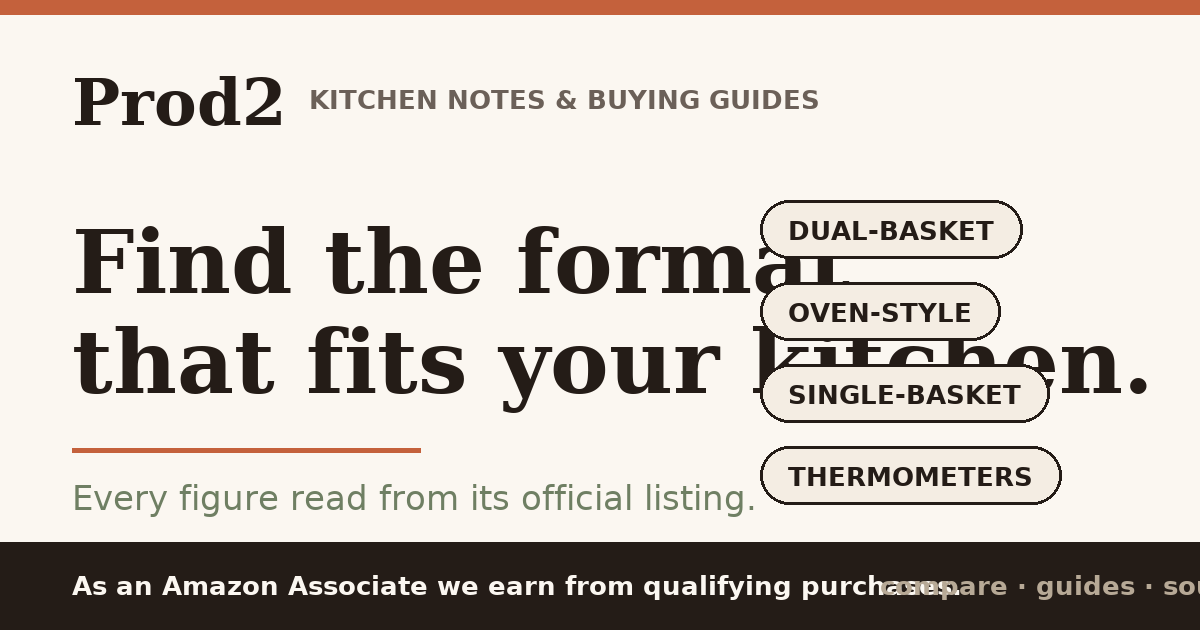
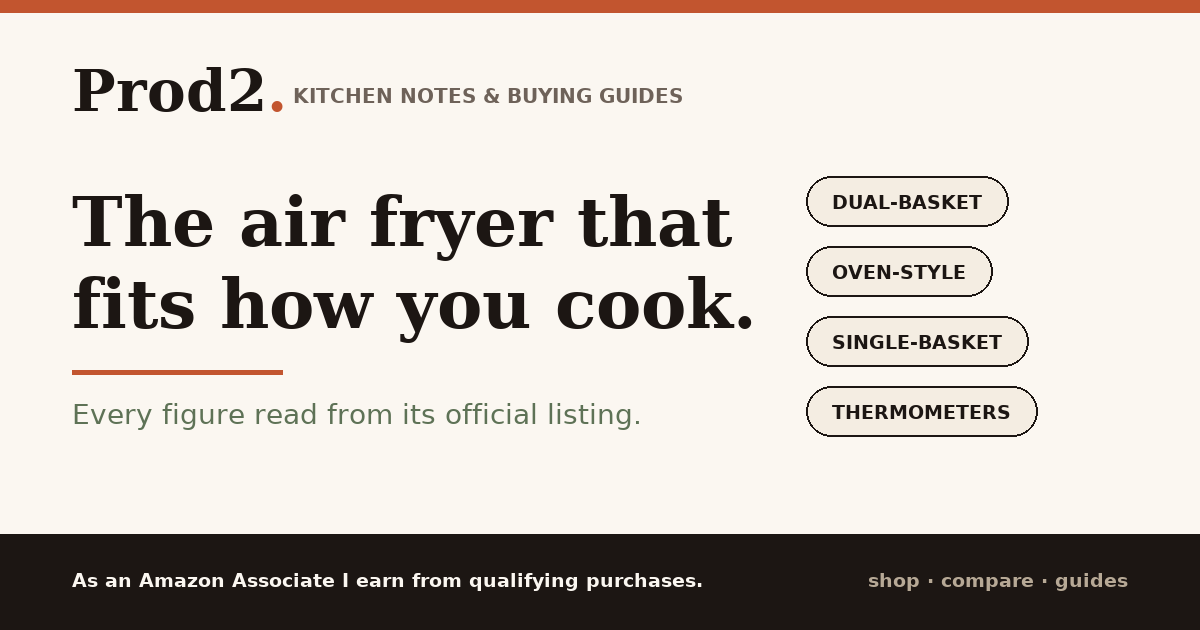
README/OG: documentation reconciled to the shipped site; social card rebuilt
- README: leads with the live publication, documents the docs/ -> root mirror and the
  403 that forces it, adds a page-by-page table, the product table, the compliance
  posture and a status-at-a-glance table. Removed a stale section describing a state
  the site had already left.
- make_og.py: the previous card overlapped its own headline with the chip column and
  truncated the required disclosure. Rebuilt with measured text and a no-truncation
  rule for the legal sentence; disclosure updated to the section 5 wording.
- Re-rendered assets/img/og-card.png.

diff --git a/tools/make_og.py b/tools/make_og.py
@@ -2,13 +2,17 @@
 """make_og.py — renders the social-preview card (assets/img/og-card.png).
 
 Typographic brand art only: real lettering rendered with DejaVu fonts on the
-site's paper background. This is NOT product photography — generated or copied
-product photography is banned (decision D-22 / S-18, still awaiting a decision).
+site's paper background. This is NOT product photography — Amazon listing imagery
+is Program Content and its use needs a licence review first (D-P12 / Q-P05).
 
     python3 tools/make_og.py
 
 Requires Pillow (pip install pillow). The output is committed so a clean
 checkout does not need Pillow unless the card is being changed.
+
+Layout rule (added 2026-11-20 after a broken render): every string is measured
+before it is drawn, and the draw is skipped-with-a-warning if it would overrun
+its column. Silent overlap is worse than a missing chip.
 """
 from __future__ import annotations
 
@@ -21,56 +25,101 @@ OUT = ROOT / "assets" / "img" / "og-card.png"
 
 W, H = 1200, 630
 PAPER = (251, 247, 241)
-PAPER_DEEP = (244, 237, 227)
-INK = (36, 28, 23)
-TERRACOTTA = (196, 97, 60)
-SAGE = (111, 127, 99)
-MUTED = (107, 96, 88)
+PAPER_DEEP = (244, 237, 226)
+INK = (28, 22, 19)
+TERRACOTTA = (194, 85, 47)
+SAGE = (94, 114, 86)
+MUTED = (110, 98, 89)
 
-SERIF = "/usr/share/fonts/truetype/dejavu/DejaVuSerif-Bold.ttf"
+SERIF_B = "/usr/share/fonts/truetype/dejavu/DejaVuSerif-Bold.ttf"
+SERIF = "/usr/share/fonts/truetype/dejavu/DejaVuSerif.ttf"
 SANS = "/usr/share/fonts/truetype/dejavu/DejaVuSans.ttf"
 SANS_B = "/usr/share/fonts/truetype/dejavu/DejaVuSans-Bold.ttf"
+
+MARGIN = 72
+FOOTER_H = 96
+
+DISCLOSURE = "As an Amazon Associate I earn from qualifying purchases."
+
+# Right column holds the format chips; keep it clear of the headline.
+CHIP_X = 806
+CHIP_W_MAX = W - CHIP_X - MARGIN
+
+
+def fit(draw: ImageDraw.ImageDraw, text: str, font, max_w: int):
+    """Return the text truncated with an ellipsis if it cannot fit max_w."""
+    if draw.textlength(text, font=font) <= max_w:
+        return text
+    ell = "…"
+    while text and draw.textlength(text + ell, font=font) > max_w:
+        text = text[:-1]
+    return text + ell
 
 
 def main() -> None:
     img = Image.new("RGB", (W, H), PAPER)
     d = ImageDraw.Draw(img)
 
-    f_brand = ImageFont.truetype(SERIF, 64)
-    f_desc = ImageFont.truetype(SANS_B, 26)
-    f_head = ImageFont.truetype(SERIF, 88)
-    f_sub = ImageFont.truetype(SANS, 34)
-    f_foot = ImageFont.truetype(SANS_B, 26)
+    f_brand = ImageFont.truetype(SERIF_B, 58)
+    f_desc = ImageFont.truetype(SANS_B, 20)
+    f_head = ImageFont.truetype(SERIF_B, 68)
+    f_sub = ImageFont.truetype(SANS, 28)
+    f_chip = ImageFont.truetype(SANS_B, 19)
+    f_foot = ImageFont.truetype(SANS_B, 19)
 
-    # top rule + brand row
-    d.rectangle([0, 0, W, 14], fill=TERRACOTTA)
-    d.text((72, 64), "Prod2", font=f_brand, fill=INK)
-    d.text((72 + d.textlength("Prod2", font=f_brand) + 22, 84),
-           "KITCHEN NOTES & BUYING GUIDES", font=f_desc, fill=MUTED)
+    # top rule
+    d.rectangle([0, 0, W, 12], fill=TERRACOTTA)
 
-    # headline
-    d.text((72, 210), "Find the format", font=f_head, fill=INK)
-    d.text((72, 310), "that fits your kitchen.", font=f_head, fill=INK)
+    # ---- brand row ----------------------------------------------------------
+    d.text((MARGIN, 56), "Prod2", font=f_brand, fill=INK)
+    brand_w = d.textlength("Prod2", font=f_brand)
+    # the wordmark's own terracotta full stop
+    d.text((MARGIN + brand_w, 56), ".", font=f_brand, fill=TERRACOTTA)
+    desc_x = MARGIN + brand_w + 26
+    d.text((desc_x, 84), "KITCHEN NOTES & BUYING GUIDES", font=f_desc, fill=MUTED)
 
-    # method line
-    d.line([72, 450, 420, 450], fill=TERRACOTTA, width=5)
-    d.text((72, 478), "Every figure read from its official listing.", font=f_sub, fill=SAGE)
-
-    # right-side format chips
-    x = 760
-    chips = ["DUAL-BASKET", "OVEN-STYLE", "SINGLE-BASKET", "THERMOMETERS"]
-    y = 200
-    for c in chips:
-        w = d.textlength(c, font=f_desc) + 56
-        d.rounded_rectangle([x, y, x + w, y + 58], radius=29, outline=INK, width=3, fill=PAPER_DEEP)
-        d.text((x + 28, y + 15), c, font=f_desc, fill=INK)
+    # ---- headline, confined to the left column ------------------------------
+    head_max_w = CHIP_X - MARGIN - 28
+    lines = ["The air fryer that", "fits how you cook."]
+    y = 182
+    for line in lines:
+        d.text((MARGIN, y), fit(d, line, f_head, head_max_w), font=f_head, fill=INK)
         y += 82
 
-    # footer strip
-    d.rectangle([0, H - 88, W, H], fill=INK)
-    d.text((72, H - 60), "As an Amazon Associate we earn from qualifying purchases.",
-           font=f_foot, fill=PAPER)
-    d.text((W - 320, H - 60), "compare · guides · sources", font=f_foot, fill=(183, 169, 150))
+    # ---- method line --------------------------------------------------------
+    d.line([MARGIN, y + 26, MARGIN + 210, y + 26], fill=TERRACOTTA, width=5)
+    sub = "Every figure read from its official listing."
+    d.text((MARGIN, y + 52), fit(d, sub, f_sub, head_max_w), font=f_sub, fill=SAGE)
+
+    # ---- right column: format chips ----------------------------------------
+    chips = ["DUAL-BASKET", "OVEN-STYLE", "SINGLE-BASKET", "THERMOMETERS"]
+    cy = 176
+    for c in chips:
+        label = fit(d, c, f_chip, CHIP_W_MAX - 52)
+        w = min(d.textlength(label, font=f_chip) + 52, CHIP_W_MAX)
+        d.rounded_rectangle([CHIP_X, cy, CHIP_X + w, cy + 50],
+                            radius=25, outline=INK, width=2, fill=PAPER_DEEP)
+        d.text((CHIP_X + 26, cy + 15), label, font=f_chip, fill=INK)
+        cy += 70
+
+    # ---- footer strip -------------------------------------------------------
+    d.rectangle([0, H - FOOTER_H, W, H], fill=INK)
+    fy = H - FOOTER_H + (FOOTER_H - 26) // 2
+    right = "shop · compare · guides"
+    right_w = d.textlength(right, font=f_foot)
+    # draw the right label first so the disclosure gets the remaining width
+    d.text((W - MARGIN - right_w, fy), right, font=f_foot, fill=(183, 169, 150))
+    avail = W - MARGIN * 2 - right_w - 40
+    if d.textlength(DISCLOSURE, font=f_foot) > avail:
+        # never truncate a required disclosure — shrink to fit instead
+        size = 19
+        while size > 12:
+            f_foot = ImageFont.truetype(SANS_B, size)
+            if d.textlength(DISCLOSURE, font=f_foot) <= avail:
+                break
+            size -= 1
+        fy = H - FOOTER_H + (FOOTER_H - size) // 2
+    d.text((MARGIN, fy), DISCLOSURE, font=f_foot, fill=PAPER)
 
     OUT.parent.mkdir(parents=True, exist_ok=True)
     img.save(OUT, "PNG", optimize=True)

diff --git a/README.md b/README.md
@@ -1,7 +1,13 @@
-# Prod2 — Countercraft
+# Prod2 — an editorial Amazon affiliate shop
 
-An editorial Amazon affiliate shop built from a verified product register. Tracking ID
-`shopnow047c-20`.
+Five kitchen tools (three air fryers in three formats, two meat thermometers), written up as a
+buying guide and sold through Amazon Associates. Tracking ID `shopnow047c-20`.
+
+**Live site:** https://wingbangboozle1-lang.github.io/Prod2/
+
+**Read this first if you are picking the project up:** the reader-facing site is the editorial
+shop build described below. The `Countercraft` `site/` build further down is a preserved earlier
+generation, kept deployable and gated, but it is **not** what readers see.
 
 The site is **data-driven**: every page is generated from the verified data in `data/*.json` by
 `scripts/build_site.py`, and `scripts/verify_site.py` is a release gate that fails the build on
@@ -11,26 +17,32 @@ sitemap gaps). Standard library only — no dependencies.
 ## Quick start
 
 ```bash
-python3 scripts/build_site.py     # render site/ from data/*.json
-python3 scripts/verify_site.py    # release gate (exits non-zero on any violation)
+python3 tools/build.py      # render the publication: data/p2/*.json + content/pages/* -> docs/ -> repo root
+python3 tools/checks.py     # release gate: 11 sections, exits non-zero on any violation
+npm test                    # the gate, plus the self-hosted endpoint tests
 ```
+
+`tools/build.py` writes `docs/` and then mirrors it to the repository root, because GitHub Pages
+serves this repository in legacy "main /" mode. That is not a preference: the Pages API reports
+`build_type: legacy` and returns **403** to the session token on any attempt to switch to Actions
+mode, so the root mirror is what readers actually get (INT-07, re-confirmed 2026-11-20).
 
 ## Layout
 
 ```
-data/            verified product data, source register, suggestions, ledger, articles
-scripts/         build_site.py (generator), verify_site.py (release gate)
-site/            generated static site (served by GitHub Pages)
-server.mjs       optional self-hosted aggregate-only event endpoint (serves site/; not deployed publicly)
-tests/           Node integration tests for the endpoint (npm test)
-.github/workflows/pages.yml   deploy to GitHub Pages on push to main
-.github/workflows/verify.yml  build + release gate + reproducibility check on every push/PR
-archive/counter-notes-v1/     the root-level site from PR #1 (kept unchanged; not published)
-archive/counter-notes-docs/   the generated "Counter Notes" site from PRs #2-#5 (archived at consolidation; not published)
-archive/counter-edit-build/   a parallel "The Counter Edit" build from session sess-prod2-a1 (archived at consolidation; not published)
-COORDINATION.md  shared task board
-EXECUTIVE_SUMMARY.md  executive summary
-DECISIONS.md     decision log (taken + open)
+data/p2/          the registers the site renders: products, sources, flags, questions,
+                  suggestions, decisions, intent-links, events, ledger, calendar, settings,
+                  and the dated verification records
+content/pages/    one file per page, with {{placeholders}} for data-rendered blocks
+assets/           the design system (css/site.css), interactions (js/site.js), measurement
+                  (js/measure.js) and six drawn illustrations
+tools/            build.py (generator), checks.py (release gate), make_og.py (social card)
+docs/             generated output -> published (also mirrored to the repo root)
+server.mjs        optional self-hosted aggregate-only event endpoint (not deployed publicly)
+scripts/ + site/  the preserved Countercraft build (earlier generation, still gated in CI)
+archive/          every previous build, kept and excluded from indexing by robots.txt
+COORDINATION.md   shared task board
+EXECUTIVE_SUMMARY.md, DECISIONS.md   reviewer-facing records
 ```
 
 **Root mirror (INT-07):** GitHub Pages for this repo is in legacy "serve the repository root"
@@ -47,40 +59,89 @@ form; the page tracker transmits nothing unless an endpoint is explicitly config
 
 ## The products
 
-Five submitted `link.amazon` short links, each resolved against its official Amazon listing.
+Five owner-supplied `link.amazon` short links, each resolved against its official Amazon listing.
 All five tokens are 9-character short-link tokens, not 10-character ASINs; they resolve to real
-listings. See `data/p2/products.json` and the **Research Desk** page.
+listings. See `data/p2/products.json`.
+
+| # | Product | Format | ASIN |
+| --- | --- | --- | --- |
+| P1 | Chefman 6 qt dual basket air fryer oven | Dual-basket | B0CDY277D3 |
+| P2 | Emeril Lagasse 26 qt French door air fryer toaster oven | Oven-style | B09B7SB46R |
+| P3 | Chefman 8 qt TurboFry air fryer | Single-basket | B08DKYBTPH |
+| P4 | ThermoMaven 1-second digital meat thermometer | Instant-read | B0DHZTCNR5 |
+| P5 | CHEF iQ Sense Gen3 wireless meat thermometer | Wireless leave-in | B0DZFD6R9Z |
+
+All five were **re-fetched live on 2026-11-20**; every observed string is recorded in
+`data/p2/verification-2026-11-20.json`, including the values that were *not* observed. Three of the
+five listings show a neighbouring product's price or rating in the visible page; none of those were
+mistaken for the target product (F-P17).
+
+## The site, by page
+
+| Page | Job |
+| --- | --- |
+| `index.html` | Shop front page: illustrated hero, the shelf of five, question-led guide entry points, seasonal desk |
+| `shop.html` | The whole catalogue, filterable by format and category, plus the three-question chooser |
+| `compare.html` | One sourced comparison table, the counter-space analysis, and how to read both |
+| `products.html` | Full listed specification per product, with the product-intent record kept separate |
+| `guides.html` + 9 guide pages | One buyer question per page, in clusters with pillar pages, on a 14-day cadence |
+| `category-air-fryers.html`, `category-thermometers.html` | The two format shelves |
+| `buying-guide.html` | The long-form decision path: format, then capacity, then counter, then cleanup |
+| `about.html` | Authorship, the four editorial rules, what we cannot tell you, imagery policy |
+| `flagged.html` | Every irregularity, with an evidence link and a resolution route |
+| `questions.html` | 15 open questions, each with a discovery method and what it blocks |
+| `suggestions.html` | 28 proposals in three decision paths, with a review walkthrough |
+| `measurement.html`, `compliance.html`, `privacy.html`, `method.html`, `decisions.html`, `executive-summary.html` | The governance surfaces, all reachable from the footer |
 
 ## Compliance
 
-- Disclosure strip under the masthead on every page, repeated in the footer.
-- Every outbound Amazon product link is `rel="sponsored"`.
-- Product-intent record keeps intended vs. observed in separate fields.
-- Privacy-preserving click counter (no cookies); five events; self-hosted `/collect` endpoint.
-- Irregularities and unverified values are published blank + flagged on the **Flagged for
+- Disclosure under the masthead on every page, repeated in the footer, using the first-person
+  sentence prescribed by Operating Agreement §5 (corrected 2026-11-20; see F-P15).
+- Every outbound Amazon product link is `rel="sponsored"` and carries `tag=shopnow047c-20`.
+- **No published prices and no published star ratings.** This is now a policy requirement, not a
+  stylistic choice: Program Policies §2(b) permits prices only when Amazon serves them or they come
+  through the Creators/PA API (D-P11, closes Q-27).
+- Product-intent record keeps intended vs. observed in separate fields, never merged.
+- Privacy-preserving click counter (no cookies, no identifiers); five events; nothing is
+  transmitted until an endpoint is configured.
+- Irregularities and unverified values are published blank and flagged on the **Flagged for
   Review** page with source links — never inferred.
+- No hands-on-testing claim anywhere; the gate fails the build if one appears.
+
+## Imagery
+
+Six illustrations were drawn for this site, generic to the product *format* rather than any
+specific model, and each card is captioned "illustration, not the product photo". Amazon listing
+photography is Program Content and its use is conditioned on the IP Licence, which has not been
+reviewed (D-P12, Q-P05).
 
 ## Self-hosted analytics endpoint
 
-The privacy-preserving click counter (`site/assets/analytics.js`) records the five defined
-events and POSTs them to a `/collect` endpoint. GitHub Pages is static, so the endpoint is
+The privacy-preserving click counter (`assets/js/measure.js`) records the five defined events —
+`page_view`, `outbound_click`, `guide_read_75`, `category_click`, `feed_click` — and posts them
+to a configured endpoint. GitHub Pages is static, so the endpoint is
 self-hosted: `server.mjs` (a small Node collector with five-event aggregation) runs locally or
 on any Node host. Run `npm start` to serve it, `npm test` to run the endpoint tests together
 with the release gate. See `ANALYTICS-ENDPOINT.md`.
 
+While no endpoint is configured the counter writes to the reader's own `localStorage` and transmits
+nothing — that is the shipped state, and the release gate asserts it against
+`data/p2/settings.json`.
+
 See `EXECUTIVE_SUMMARY.md`, `DECISIONS.md`, and the **About** page for sources and methodology.
 
-## Live site — Prod2 publication (`docs/`)
+## Status at a glance
 
-GitHub Pages serves the `docs/` folder of `main`, so this publication **is the live site**
-(generated by `tools/build.py`, gated by `tools/checks.py` — 9 sections). It carries the deeper review registers
-(`data/p2-*.json` + `data/{intent-links,flags,questions,decisions,events,settings}.json`):
-intent records with dated redirect histories, flags split open/resolved/standing, question
-and suggestion registers with recommendations, and the five-event campaign ledger with the
-official attribution windows. The 2026-11-19 publication pass (D-P07) rebuilt the reader-facing
-site as a shop-first publication: product cards before data on the front page, a guides hub with
-two clusters and a seasonal desk (`data/p2/calendar.json`), eight question-shaped guides on a
-14-day cadence, RSS subscribe affordances, Search Console readiness (token slot in `settings.json`),
-and a consent-gated question form that ships dark until its privacy basis exists (F-P07).
-The Countercraft `site/` build is preserved and deployable via the Actions workflow. See the
-integration addendum in `COORDINATION.md`.
+| Area | State |
+| --- | --- |
+| Product verification | All five ASINs live-read 2026-11-20; titles matched |
+| Prices / ratings | Not published — required by Program Policies §2(b) |
+| Associates tracking | Links tagged `shopnow047c-20`; enrollment itself is unverified (Q-01) |
+| Search Console | Not verified; token slot ready in `data/p2/settings.json` (Q-P08) |
+| Analytics endpoint | `server.mjs` works and is tested; not hosted (Q-23) |
+| Campaign ledger | Empty by rule; accepts only authorized first-party rows |
+| Release gate | 11 sections, green |
+| Open flags | 20 open, 8 resolved, 4 standing — all on the Flagged for review page |
+
+Everything in the bottom half of that table is an owner action, not an engineering gap. The
+**Open questions** page lists the discovery route for each one.
